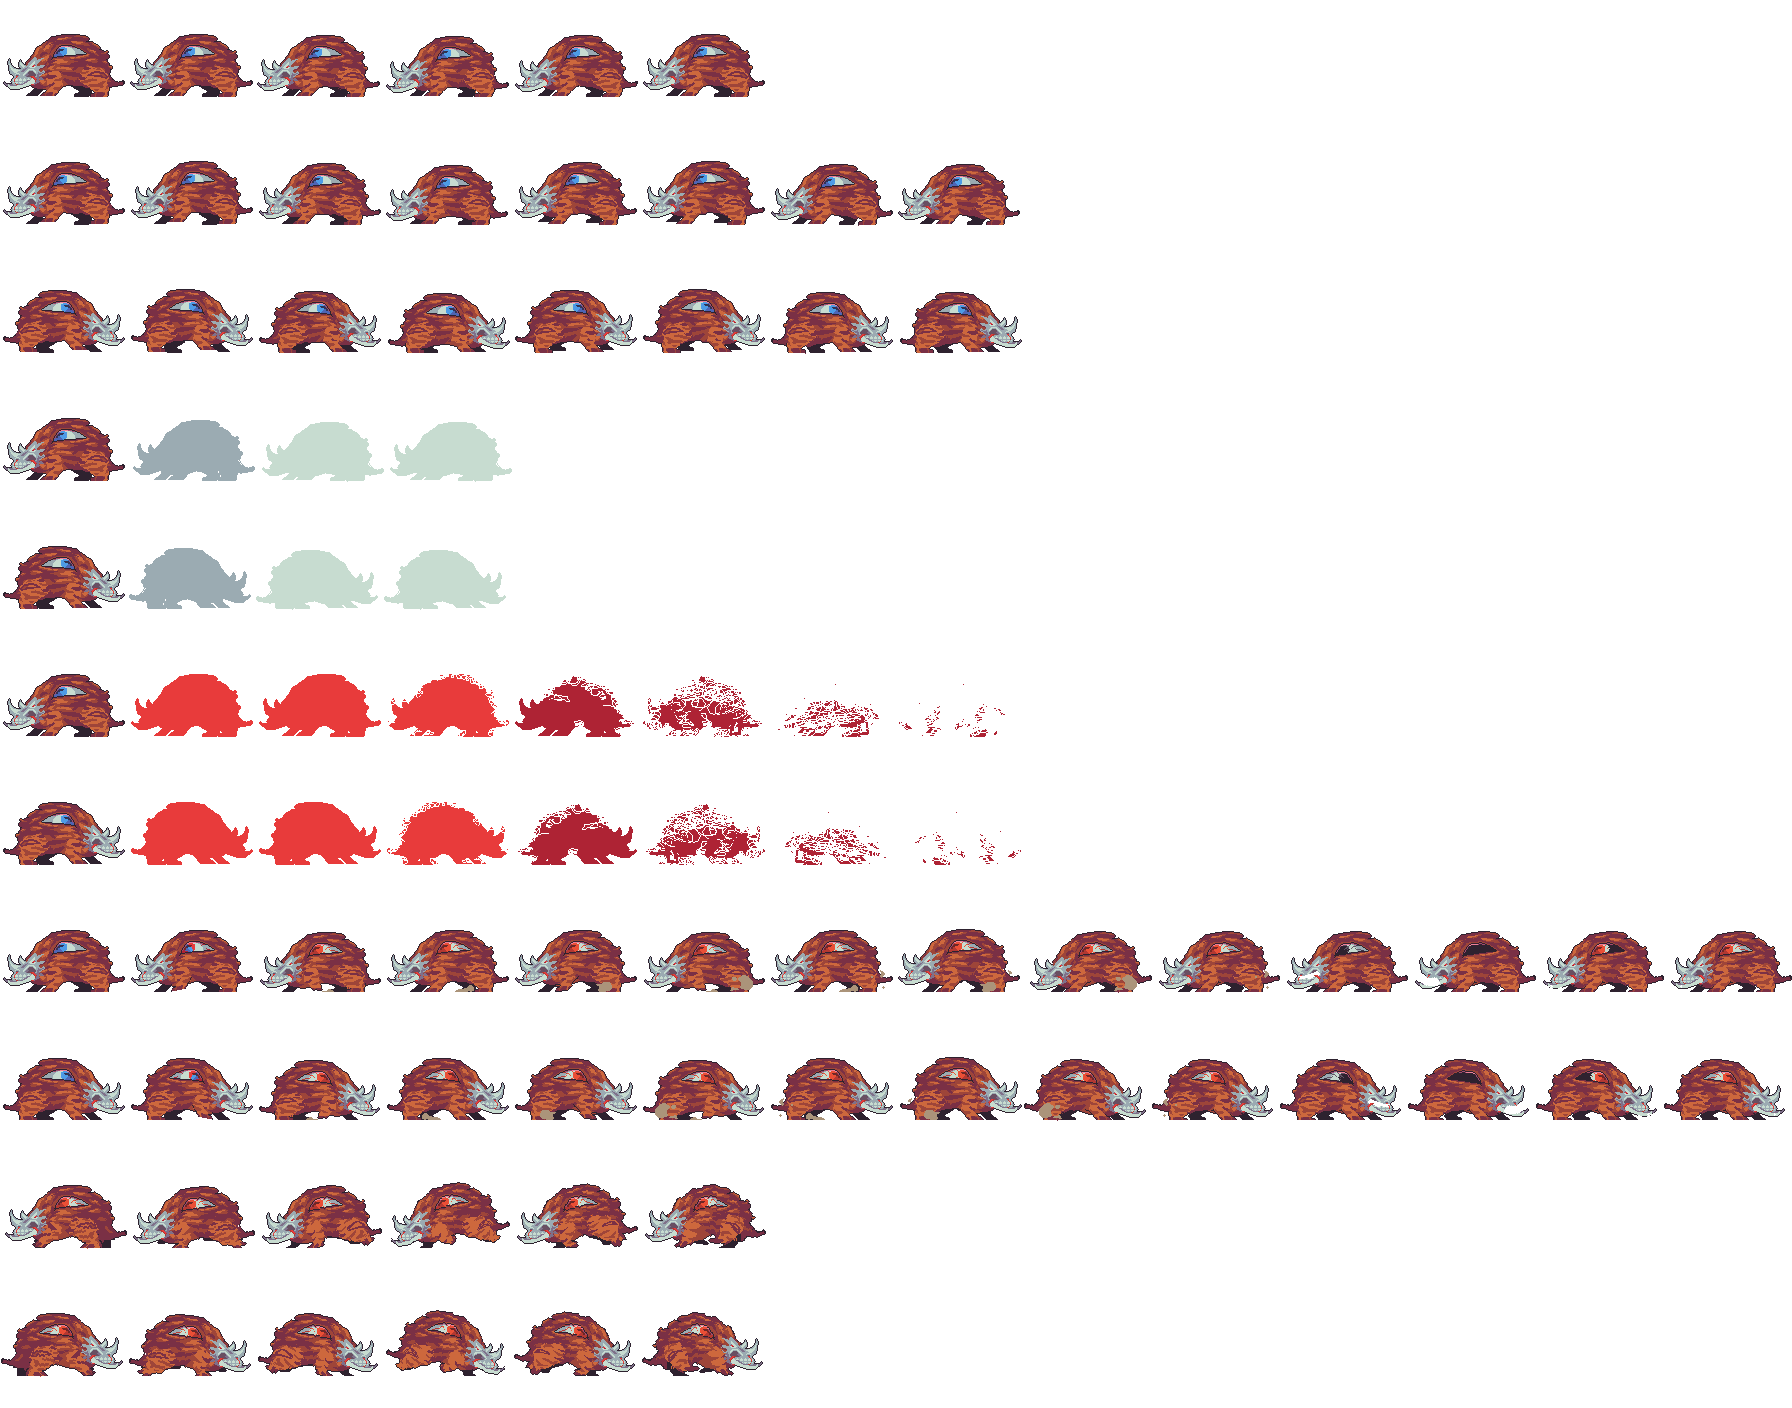
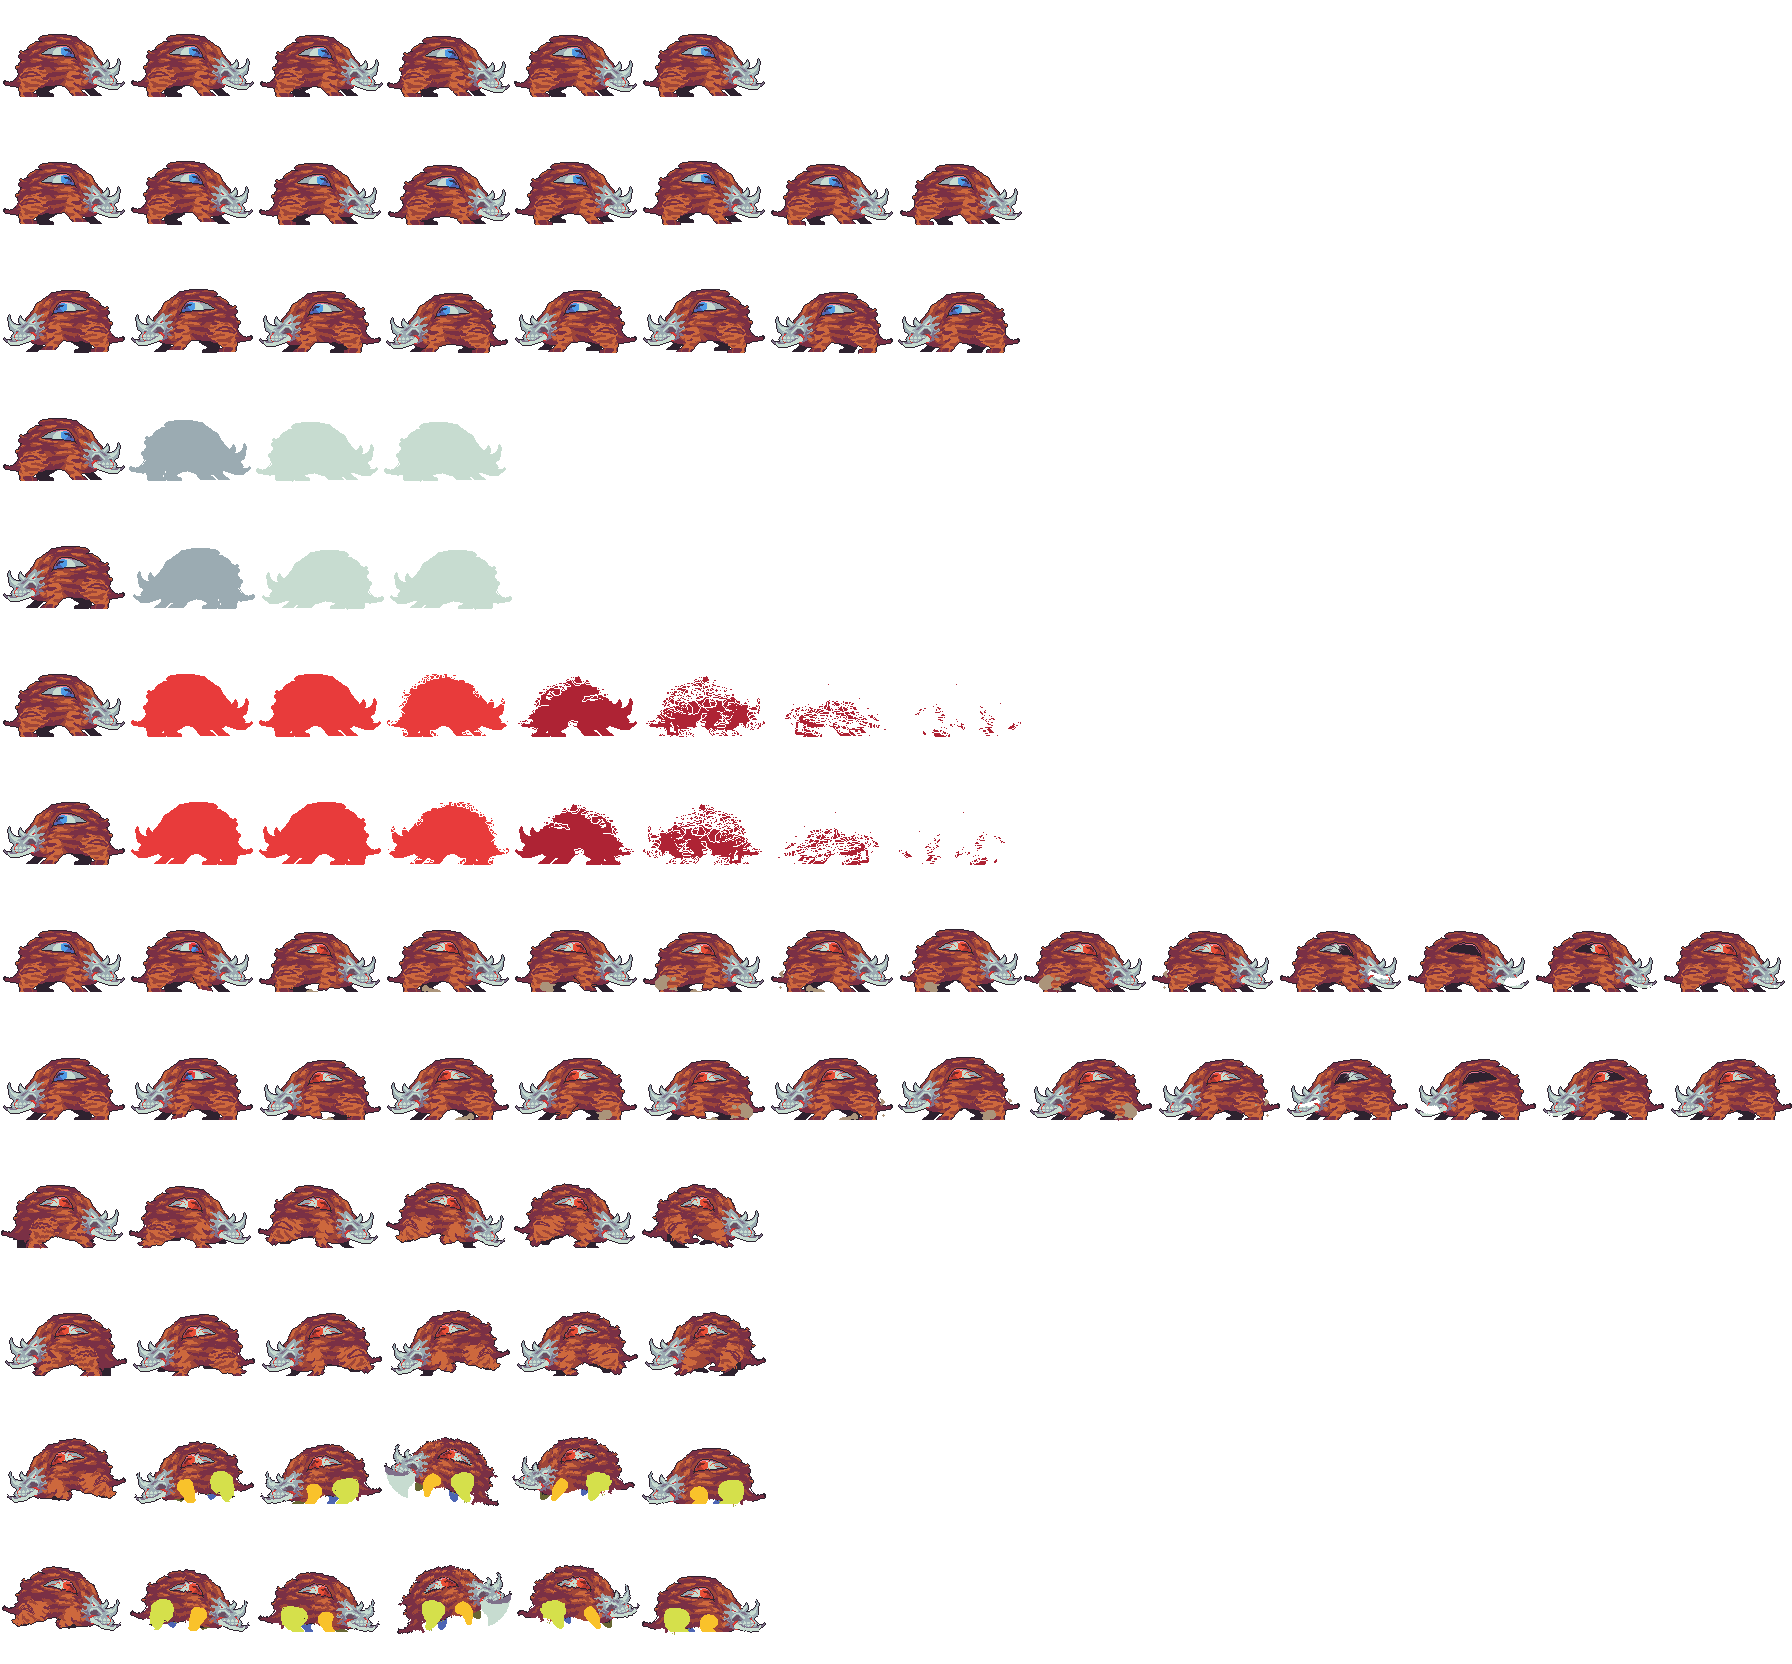
added Attack sprite

diff --git a/src/Entities/Boss/BossData.java b/src/Entities/Boss/BossData.java
@@ -6,17 +6,19 @@ public enum BossData {
             10f, 45f,
             10, 1,
             6,
-            8,   8,
-            4,     4,
-            8,      8,
+            8, 8,
+            4, 4,
+            8, 8,
             14, 14,
-            6,     6,
+            6, 6,
+            6,6,
             0,
-            1 , 2,
-            3,   4,
-            5,    6,
-            7,8,
-            9,   10);
+            1 ,     2,
+            3, 4,
+            5, 6,
+            8, 7,
+            9, 10,
+            11, 12);
 
     public int bossType;
     public int hbWidth, hbHeight;
@@ -26,46 +28,40 @@ public enum BossData {
 
     //Amount of Sprites
     int spriteA_IDLE;
-    int spriteA_WALKRIGHT;
-    int spriteA_WALKLEFT;
-    int spriteA_DMGLEFT;
-    int spriteA_DMGRIGHT;
-    int spriteA_DIELEFT;
-    int spriteA_DIERIGHT;
-    int spriteA_DETECTLEFT;
-    int spriteA_DETECTRIGHT;
-    int spriteA_RUNLEFT;
-    int spriteA_RUNRIGHT;
+    int spriteA_WALKRIGHT;      int spriteA_WALKLEFT;
+    int spriteA_DMGLEFT;        int spriteA_DMGRIGHT;
+    int spriteA_DIELEFT;        int spriteA_DIERIGHT;
+    int spriteA_DETECTLEFT;     int spriteA_DETECTRIGHT;
+    int spriteA_RUNLEFT;        int spriteA_RUNRIGHT;
+    int spriteA_ATTACKLEFT;    int spriteA_ATTACKRIGHT;
 
     //ROW Indices
     int rowIDLE;
-    int rowWALKRIGHT;
-    int rowWALKLEFT;
-    int rowDMGLEFT;
-    int rowDMGRIGHT;
-    int rowDIELEFT;
-    int rowDIERIGHT;
-    int rowDETECTLEFT;
-    int rowDETECTRIGHT;
-    int rowRUNLEFT;
-    int rowRUNRIGHT;
+    int rowWALKRIGHT;       int rowWALKLEFT;
+    int rowDMGLEFT;         int rowDMGRIGHT;
+    int rowDIELEFT;         int rowDIERIGHT;
+    int rowDETECTLEFT;      int rowDETECTRIGHT;
+    int rowRUNLEFT;         int rowRUNRIGHT;
+    int rowATTACKLEFT;      int rowATTACKRIGHT;
 
     BossData(int type,
-             int hbW, int hbH,
+             int hbW,    int hbH,
              float offX, float offY,
              int health, int dmg,
              int spriteA_IDLE,
-             int spriteA_WALKRIGHT, int spriteA_WALKLEFT,
-             int spriteA_DMGLEFT, int spriteA_DMGRIGHT,
-             int spriteA_DIELEFT, int spriteA_DIERIGHT,
-             int spriteA_DETECTLEFT, int spriteA_DETECTRIGHT,
-             int spriteA_RUNLEFT, int spriteA_RUNRIGHT,
+             int spriteA_WALKRIGHT,     int spriteA_WALKLEFT,
+             int spriteA_DMGLEFT,       int spriteA_DMGRIGHT,
+             int spriteA_DIELEFT,       int spriteA_DIERIGHT,
+             int spriteA_DETECTLEFT,    int spriteA_DETECTRIGHT,
+             int spriteA_RUNLEFT,       int spriteA_RUNRIGHT,
+             int spriteA_ATTACKLEFT,    int spriteA_ATTACKRIGHT,
              int rowIDLE,
-             int rowWALKLEFT, int rowWALKRIGHT,
-             int rowDMGLEFT, int rowDMGRIGHT,
-             int rowDIELEFT, int rowDIERIGHT,
+             int rowWALKLEFT,   int rowWALKRIGHT,
+             int rowDMGLEFT,    int rowDMGRIGHT,
+             int rowDIELEFT,    int rowDIERIGHT,
              int rowDETECTLEFT, int rowDETECTRIGHT,
-             int rowRUNLEFT, int rowRUNRIGHT) {
+             int rowRUNLEFT,    int rowRUNRIGHT,
+             int rowATTACKLEFT, int rowATTACKRIGHT) {
         this.bossType = type;
         this.hbWidth = hbW;
         this.hbHeight = hbH;
@@ -80,6 +76,7 @@ public enum BossData {
         this.spriteA_DIELEFT = spriteA_DIELEFT;         this.spriteA_DIERIGHT = spriteA_DIERIGHT;
         this.spriteA_DETECTLEFT = spriteA_DETECTLEFT;   this.spriteA_DETECTRIGHT = spriteA_DETECTRIGHT;
         this.spriteA_RUNLEFT = spriteA_RUNLEFT;         this.spriteA_RUNRIGHT = spriteA_RUNRIGHT;
+        this.spriteA_ATTACKLEFT = spriteA_ATTACKLEFT;    this.spriteA_ATTACKRIGHT = spriteA_ATTACKRIGHT;
 
         this.rowIDLE = rowIDLE;
         this.rowWALKRIGHT = rowWALKRIGHT;   this.rowWALKLEFT = rowWALKLEFT;
@@ -87,6 +84,7 @@ public enum BossData {
         this.rowDIELEFT = rowDIELEFT;       this.rowDIERIGHT = rowDIERIGHT;
         this.rowDETECTLEFT = rowDETECTLEFT; this.rowDETECTRIGHT = rowDETECTRIGHT;
         this.rowRUNLEFT = rowRUNLEFT;       this.rowRUNRIGHT = rowRUNRIGHT;
+        this.rowATTACKLEFT = rowATTACKLEFT; this.rowATTACKRIGHT = rowATTACKRIGHT;
     }
 
     public static BossData getByOrder(int type) {

diff --git a/src/Entities/Boss/Embryn.java b/src/Entities/Boss/Embryn.java
@@ -67,7 +67,9 @@ public class Embryn extends Boss {
                 bossData.spriteA_DETECTLEFT,    // Row 7
                 bossData.spriteA_DETECTRIGHT,   // Row 8
                 bossData.spriteA_RUNLEFT,       // Row 9
-                bossData.spriteA_RUNRIGHT       // Row 10
+                bossData.spriteA_RUNRIGHT,      // Row 10
+                bossData.spriteA_ATTACKLEFT,    // Row 11
+                bossData.spriteA_ATTACKRIGHT    // Row 12
         };
 
         animations = new BufferedImage[spriteAmounts.length][];
@@ -115,7 +117,7 @@ public class Embryn extends Boss {
 
         liveCounts[IDLE] = bossData.spriteA_IDLE;
         liveCounts[RUNNING] = (walkDir == RIGHT) ? bossData.spriteA_RUNRIGHT : bossData.spriteA_RUNLEFT;
-        liveCounts[ATTACK] = (walkDir == RIGHT) ? bossData.spriteA_WALKRIGHT : bossData.spriteA_WALKLEFT;
+        liveCounts[ATTACK] = (walkDir == RIGHT) ? bossData.spriteA_ATTACKLEFT : bossData.spriteA_ATTACKRIGHT;
         liveCounts[HIT] = (walkDir == RIGHT) ? bossData.spriteA_DMGRIGHT : bossData.spriteA_DMGLEFT;
         liveCounts[DEAD] = (walkDir == RIGHT) ? bossData.spriteA_DIERIGHT : bossData.spriteA_DIELEFT;
         liveCounts[DETECT] = (walkDir == RIGHT) ? bossData.spriteA_DETECTRIGHT : bossData.spriteA_DETECTLEFT;
@@ -204,7 +206,11 @@ public class Embryn extends Boss {
                 }
 
                 case DETECT -> turnTowardsPlayer(player);
-                case ATTACK -> checkEnemyHit(attackBox, player);
+                case ATTACK -> {
+                    if (animationIndex >= 3 && animationIndex <= 5) {
+                        checkEnemyHit(attackBox, player);
+                    }
+                }
                 case DEAD -> {
                     if (!defeatMsgSent) {
                         Game.getInstance().getUi().setBossDefeatMsg("EMBRYN DEFEATED!");

diff --git a/src/Entities/Player.java b/src/Entities/Player.java
@@ -47,7 +47,7 @@ public class Player extends Entity{
     private final int INVINCIBILITY_TIME = 150; // 200 UPS = 1 sec / Quarter of a second
 
     //Mana
-    private int manaBottles; // temporary
+    private int manaBottles;
     private int maxManaBottles;
     private int manaRegenTick = 0;
     private final int REGEN_THRESHOLD = 5 * 200;
@@ -318,7 +318,7 @@ public class Player extends Entity{
     private void updatePos() {
         moving = false;
 
-        if (!left && !right && !inAir && !knockbackActive && extraHSpeed == 0) return;
+        if (!left && !right && !jump && !inAir && !knockbackActive && extraHSpeed == 0) return;
 
         float xSpeed = 0;
 
@@ -456,8 +456,7 @@ public class Player extends Entity{
         moving       = false;
         playerAction = IDLE;
         this.life    = maxLife;
-
-
+        this.manaBottles = maxManaBottles;
 
         hitbox.x = x;
         hitbox.y = y;
@@ -491,9 +490,9 @@ public class Player extends Entity{
         this.knockbackTick = 0;
 
         if (sourceX > hitbox.x) {
-            knockbackDir = -2;
+            knockbackDir = -1;
         } else {
-            knockbackDir = 2;
+            knockbackDir = 1;
         }
 
         this.inAir = true;

diff --git a/src/Entities/Boss/Boss.java b/src/Entities/Boss/Boss.java
@@ -31,8 +31,8 @@ public abstract class Boss extends Enemy {
 
     private int getCorrectRow() {
         return switch (enemyState) {
-            case ATTACK -> (walkDir == RIGHT) ? bossData.rowWALKRIGHT : bossData.rowWALKLEFT;
-            case RUNNING -> (walkDir == RIGHT) ? bossData.rowRUNRIGHT : bossData.rowRUNLEFT;
+            case ATTACK -> (walkDir == RIGHT) ? bossData.rowATTACKRIGHT : bossData.rowATTACKLEFT;
+            case RUNNING -> (walkDir == RIGHT) ? bossData.rowRUNLEFT : bossData.rowRUNRIGHT;
             case DETECT -> (walkDir == RIGHT) ? bossData.rowDETECTRIGHT : bossData.rowDETECTLEFT;
             case HIT -> (walkDir == RIGHT) ? bossData.rowDMGRIGHT : bossData.rowDMGLEFT;
             case DEAD -> (walkDir == RIGHT) ? bossData.rowDIERIGHT : bossData.rowDIELEFT;

diff --git a/src/Entities/Boss/Enemy.java b/src/Entities/Boss/Enemy.java
@@ -121,7 +121,7 @@ public abstract class Enemy extends Entity {
         if (this.hitbox.intersects(player.getHitbox())) {
             if (!player.invincible) {
                 if (!player.canStomp()) {
-                    player.changeHealth(-1);
+                    //player.changeHealth(-1);
                     player.applyKnockback(this.hitbox.x);
                 }
             }
